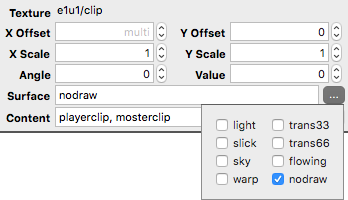
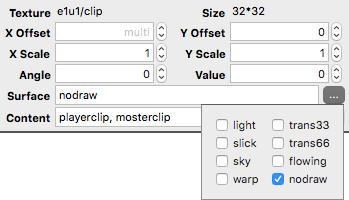
Add size field to face attributes.

diff --git a/common/src/View/FaceAttribsEditor.cpp b/common/src/View/FaceAttribsEditor.cpp
@@ -200,6 +200,10 @@ namespace TrenchBroom {
             textureNameLabel->SetFont(textureNameLabel->GetFont().Bold());
             m_textureName = new wxStaticText(this, wxID_ANY, "none");
             
+            wxStaticText* textureSizeLabel = new wxStaticText(this, wxID_ANY, "Size");
+            textureSizeLabel->SetFont(textureSizeLabel->GetFont().Bold());
+            m_textureSize = new wxStaticText(this, wxID_ANY, "");
+            
             const double max = std::numeric_limits<double>::max();
             const double min = -max;
             
@@ -255,6 +259,7 @@ namespace TrenchBroom {
             const int RowMargin    = LayoutConstants::NarrowVMargin;
             
             const int LabelFlags   = wxALIGN_RIGHT | wxALIGN_CENTER_VERTICAL | wxRIGHT;
+            const int ValueFlags   = wxALIGN_CENTER_VERTICAL | wxRIGHT;
             const int Editor1Flags = wxEXPAND | wxRIGHT;
             const int Editor2Flags = wxEXPAND;
             
@@ -263,7 +268,9 @@ namespace TrenchBroom {
             
             m_faceAttribsSizer = new wxGridBagSizer(RowMargin);
             m_faceAttribsSizer->Add(textureNameLabel,     wxGBPosition(r,c++), wxDefaultSpan, LabelFlags,   LabelMargin);
-            m_faceAttribsSizer->Add(m_textureName,        wxGBPosition(r,c++), wxGBSpan(1,3), Editor2Flags, EditorMargin);
+            m_faceAttribsSizer->Add(m_textureName,        wxGBPosition(r,c++), wxDefaultSpan, ValueFlags,   EditorMargin);
+            m_faceAttribsSizer->Add(textureSizeLabel,     wxGBPosition(r,c++), wxDefaultSpan, LabelFlags,   LabelMargin);
+            m_faceAttribsSizer->Add(m_textureSize,        wxGBPosition(r,c++), wxDefaultSpan, ValueFlags,   EditorMargin);
             ++r, c = 0;
 
             m_faceAttribsSizer->Add(xOffsetLabel,         wxGBPosition(r,c++), wxDefaultSpan, LabelFlags,   LabelMargin);
@@ -429,17 +436,29 @@ namespace TrenchBroom {
                 if (textureMulti) {
                     m_textureName->SetLabel("multi");
                     m_textureName->SetForegroundColour(*wxLIGHT_GREY);
+                    m_textureSize->SetLabel("multi");
+                    m_textureSize->SetForegroundColour(*wxLIGHT_GREY);
                 } else {
                     const String& textureName = m_faces[0]->textureName();
                     if (textureName == Model::BrushFace::NoTextureName) {
                         m_textureName->SetLabel("none");
                         m_textureName->SetForegroundColour(*wxLIGHT_GREY);
+                        m_textureSize->SetLabel("");
+                        m_textureSize->SetForegroundColour(*wxLIGHT_GREY);
                     } else {
-                        if (texture != NULL)
+                        if (texture != NULL) {
+                            wxString sizeLabel;
+                            sizeLabel << texture->width() << "*" << texture->height();
+
                             m_textureName->SetLabel(textureName);
-                        else
+                            m_textureSize->SetLabel(sizeLabel);
+                            m_textureName->SetForegroundColour(GetForegroundColour());
+                            m_textureSize->SetForegroundColour(GetForegroundColour());
+                        } else {
                             m_textureName->SetLabel(textureName + " (not found)");
-                        m_textureName->SetForegroundColour(GetForegroundColour());
+                            m_textureName->SetForegroundColour(*wxLIGHT_GREY);
+                            m_textureSize->SetForegroundColour(*wxLIGHT_GREY);
+                        }
                     }
                 }
                 if (xOffsetMulti) {

diff --git a/common/src/View/FaceAttribsEditor.h b/common/src/View/FaceAttribsEditor.h
@@ -50,6 +50,7 @@ namespace TrenchBroom {
 
             UVEditor* m_uvEditor;
             wxStaticText* m_textureName;
+            wxStaticText* m_textureSize;
             SpinControl* m_xOffsetEditor;
             SpinControl* m_yOffsetEditor;
             SpinControl* m_xScaleEditor;
